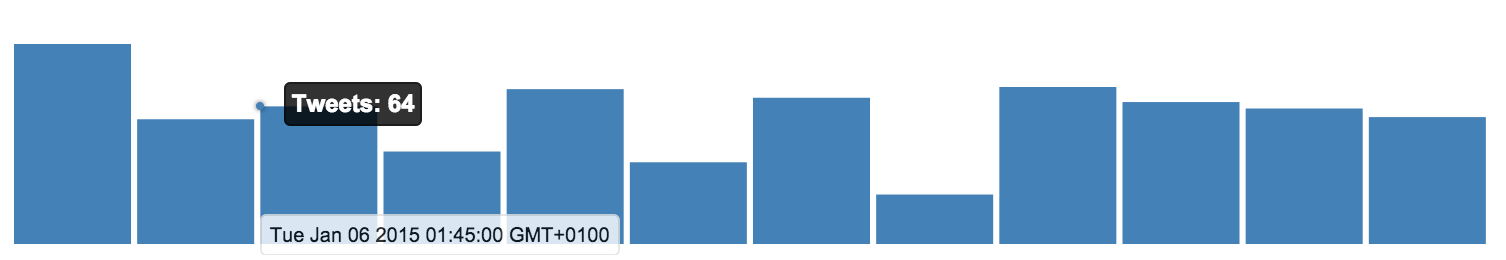
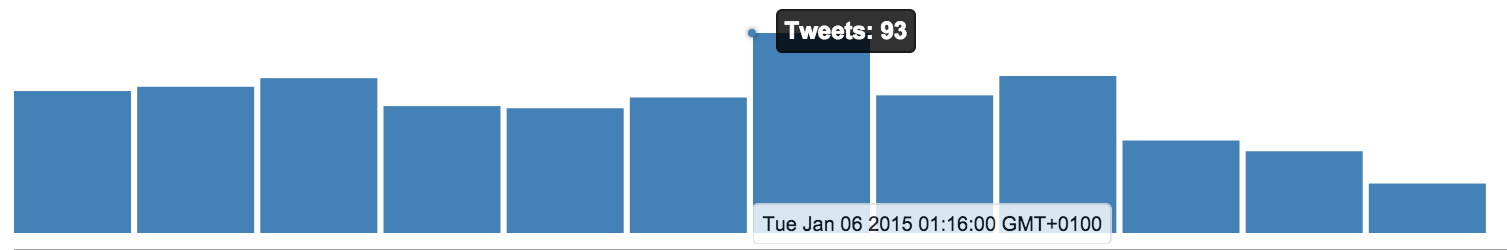
timeseries chapter

diff --git a/manuscript/Client-Timeseries-Chart.md b/manuscript/Client-Timeseries-Chart.md
@@ -95,7 +95,7 @@ Next, we have the ````barchart```` function:
 
 This first of all determines the ````gap```` between the bars. It then renders the ````:svg```` with all bars inside a group ````:g````. Once again, we are setting the key so React can reuse elements and be more efficient.
 
-
+Then, we have the ````labels```` component. Let's first see how that looks like, with the sample data from when we discussed the ````birdwatch.timeseries```` namespace:
 
 ![](images/ts-example-label.png)
 
@@ -112,7 +112,7 @@ This first of all determines the ````gap```` between the bars. It then renders t
        [:div.dot.active {:style {:top top :border-color "steelblue"}}]])))
 ~~~
 
-
+As you can see above, the ````labels```` component consists of two parts. On top, it shows how many tweets were encountered in the interval and at the bottom it shows us the start of the interval.
 
 Finally in this namespace, we have another component named ````ts-chart```` and render it into ````ts-elem````:
 
@@ -130,4 +130,4 @@ Finally in this namespace, we have another component named ````ts-chart```` and 
 (r/render-component [ts-chart] ts-elem)
 ~~~
 
-This component creates the ````:div```` that holds both the ````barchart```` SVG and ````labels````. Note that I've removed the Rickshaw library from the project, but for now I'm still using some of its CSS, e.g. the ````rickshaw_graph```` class. 
+This component creates the ````:div```` that holds both the ````barchart```` SVG and ````labels````. Note that I've removed the Rickshaw library from the project, but for now I'm still using some of its CSS, e.g. the ````rickshaw_graph```` class, or the classes used in the ````labels```` component. 

diff --git a/manuscript/Client-Timeseries.md b/manuscript/Client-Timeseries.md
@@ -167,20 +167,20 @@ Here's a truncated output of this function as an example, after running the ````
 
 ~~~
 {1420501500 66,
- 1420502940 63,
  1420501620 68,
- 1420505580 43,
  1420501680 72,
- 1420505340 73,
- 1420502820 58,
- 1420505100 64,
- 1420506000 38,
  1420501980 59,
- 1420506300 23,
- 1420503360 93}
+ 1420502820 58,
+ 1420502940 63,
+ 1420503360 93,
+ 1420505100 64,
+ 1420505340 73,
+ 1420505580 43,
+ 1420506000 38,
+ 1420506300 23}
 ~~~
 
-Let's take it one step further and use this truncated sample data as the actual output of the ````ts-data```` to see how this translates into a bar chart:
+Let's take it one step further and use this truncated sample data as the actual output of the ````ts-data```` instead of the ````reduce```` over data to see how this translates into a bar chart:
 
 ![timeseries chart with example data](images/ts-example.png)
 
